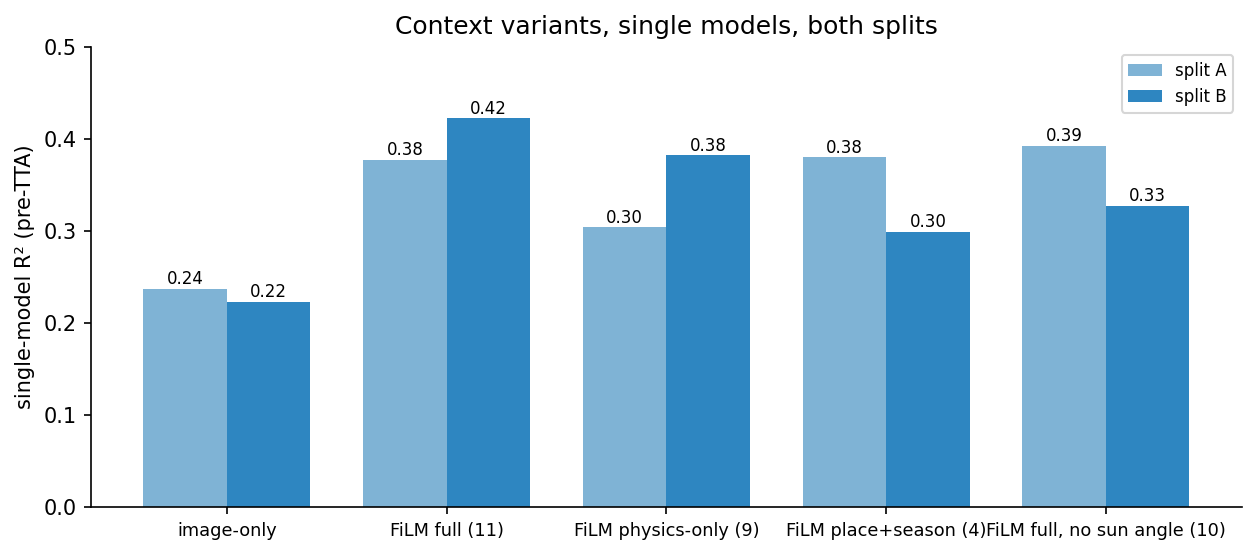
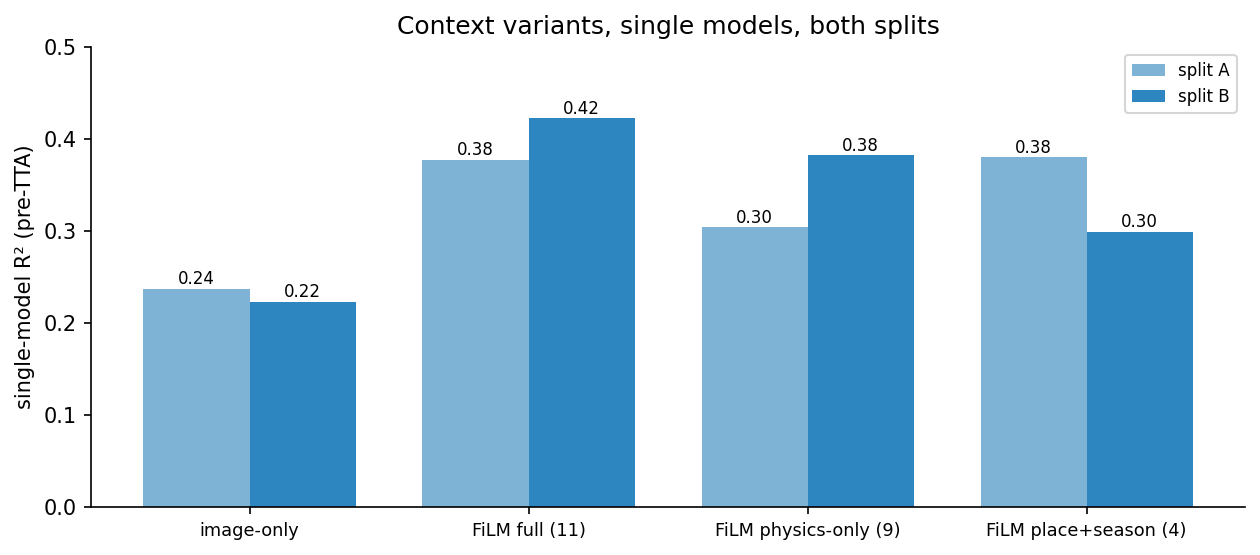
Figures 37/38: drop the sun-angle removal variants; fig38 now shows member stability across splits; add fig31

diff --git a/scripts/11_figures.py b/scripts/11_figures.py
@@ -822,10 +822,9 @@ def fig36():  # exceedance confusion matrices
     save(fig, "fig36_exceedance_confusion.png")
 
 
-def fig37():  # feature ablation, single models pre-TTA (§3q-3s, §3x, §3y)
+def fig37():  # feature ablation, single models pre-TTA (§3q-3s, §3y)
     rows = [("image-only", 0.237, 0.223), ("FiLM full (11)", 0.377, 0.422),
-            ("FiLM physics-only (9)", 0.304, 0.382), ("FiLM place+season (4)", 0.380, 0.299),
-            ("FiLM full, no sun angle (10)", 0.392, 0.327)]
+            ("FiLM physics-only (9)", 0.304, 0.382), ("FiLM place+season (4)", 0.380, 0.299)]
     fig, ax = plt.subplots(figsize=(8.5, 3.8))
     x = np.arange(len(rows)); w = 0.38
     ax.bar(x - w/2, [r[1] for r in rows], w, color=LTBLUE, label="split A")
@@ -839,20 +838,22 @@ def fig37():  # feature ablation, single models pre-TTA (§3q-3s, §3x, §3y)
     save(fig, "fig37_feature_ablation.png")
 
 
-def fig38():  # initialization lottery
-    pairs = [("full A: init 0 → init 2", 0.377, 0.419), ("full B: init 0 → init 2", 0.422, 0.354),
-             ("full A: with → without sun", 0.377, 0.392), ("full B: with → without sun", 0.422, 0.327),
-             ("physics A: with → without sun", 0.304, 0.347), ("physics B: with → without sun", 0.382, 0.200),
-             ("reference A: with → without sun", 0.406, 0.421), ("reference B: with → without sun", 0.399, 0.370)]
-    fig, ax = plt.subplots(figsize=(8, 4.2))
-    for i, (name, a, b) in enumerate(pairs):
-        ax.plot([a, b], [i, i], color=GRAY, lw=2)
-        ax.scatter([a], [i], color=LTBLUE, s=40, zorder=3); ax.scatter([b], [i], color=BLUE, s=40, zorder=3)
-        ax.text(max(a, b) + 0.008, i, f"{b - a:+.3f}", va="center", fontsize=8)
-    ax.set_yticks(range(len(pairs))); ax.set_yticklabels([p[0] for p in pairs], fontsize=8.5); ax.invert_yaxis()
-    ax.set_xlabel("single-model R²"); ax.set_xlim(0.15, 0.5)
-    ax.set_title("Same recipe, one change: single models move by up to ±0.18 — blends are the stable object")
-    save(fig, "fig38_init_lottery.png")
+def fig38():  # single models vary by split and initialization; the blend does not (§3t, §3w)
+    rows = [("FiLM full", 0.377, 0.422), ("FiLM physics-only", 0.304, 0.382),
+            ("FiLM place+season", 0.380, 0.299), ("FiLM full, second initialization", 0.419, 0.354),
+            ("FiLM reference-image", 0.406, 0.399), ("five-member blend", 0.435, 0.435)]
+    fig, ax = plt.subplots(figsize=(8, 3.8))
+    for i, (name, a_, b_) in enumerate(rows):
+        last = i == len(rows) - 1
+        ax.plot([a_, b_], [i, i], color=GRAY, lw=2)
+        ax.scatter([a_], [i], color=LTBLUE, s=55 if last else 40, zorder=3, label="split A" if i == 0 else None)
+        ax.scatter([b_], [i], color=BLUE, s=55 if last else 40, zorder=3, label="split B" if i == 0 else None)
+        ax.text(max(a_, b_) + 0.008, i, f"spread {abs(b_ - a_):.3f}", va="center", fontsize=8,
+                fontweight="bold" if last else "normal")
+    ax.set_yticks(range(len(rows))); ax.set_yticklabels([r[0] for r in rows], fontsize=8.5); ax.invert_yaxis()
+    ax.set_xlabel("R² at held-out stations"); ax.set_xlim(0.27, 0.5); ax.legend(fontsize=8, loc="lower right")
+    ax.set_title("Single models move between splits and initializations; the blend does not")
+    save(fig, "fig38_member_stability.png")
 
 
 def fig39():  # 2023 time series at three held-out stations in different states
